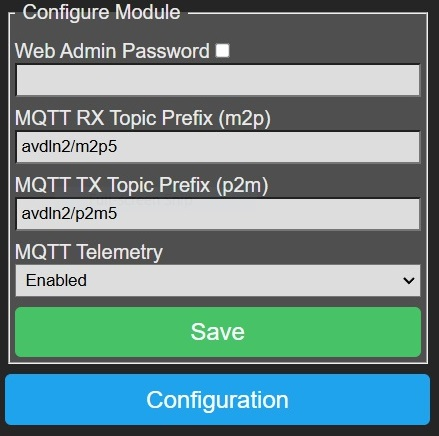
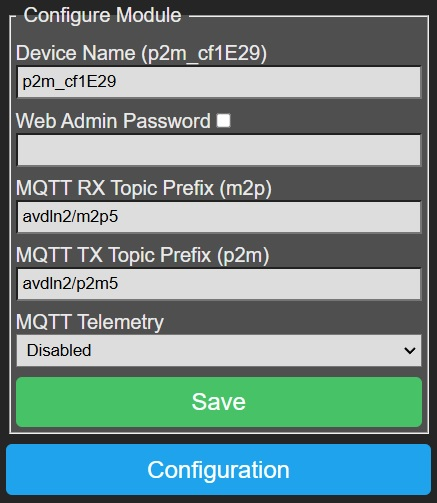
Update docs for v5.x.y.z

diff --git a/docs/Phc2MqttV5.md b/docs/Phc2MqttV5.md
@@ -17,9 +17,10 @@ description: Phc2Mqtt v5.x.y.z
 | MQTT | A compact telemetry protocol typically used in IoT applications, runs over TCP
 | PHC | PEHA Home Control domotic system  
 | STM | STeering Module, the central processor in a PHC system
-| System Software | THe Windows application to configure and program your PHC system  
+| System Software | The PEHA Windows application to configure and program your PHC system  
 | PCB | Printed Circuit Board, a non-conductive material with copper patterns on 1 or 2 sides to interconnect electronic components
 | ESP32 DevkitC | The ESP32 dual core module that is used for Phc2Mqtt, we use the WROVER version with 4Mb/8Mb flash memory and 4Mb PSRAM
+| LilyGo T-ETH Lite | The ESP32 dual code module with ethernet that is used on PCB v3.x, with WROVER
 | P2M | The combination of the hardware and software that make up the functionality of Phc2Mqtt
 | Sub-system | A functional part of P2M that performs a certain task and is under supervision of P2M
 | NVS | Non-volatile storage, a part of memory that stores data and settings permanently, even when power fails
@@ -27,6 +28,7 @@ description: Phc2Mqtt v5.x.y.z
 | Oper State | Operational state (stopped/started), this is the actual running state of a sub-system. A sub-system will be stopped when booting P2M, if the admin state is enable, then the sub-system will be started and the oper-state will become started  
 | AP-mode | Access Point mode, the Phc2Mqtt module acts as an access point to which you can connect with a Wifi enabled PC or Smart Phone
 | STA-mode |Station mode, the Phc2Mqtt module connects to a Wifi AP as a station, you can access P2M via the WLAN network
+| ETH-mode | Ethernet mode, the Phc2Mqtt module connects via an ethernet link to the network
 | OTA-update | Over-The-Air, refers to firmware upgrade by simple file upload, as such you don't need to open P2M or use specialized hardware
 | Serial-update | Refers to firmware upgrade via a USB port, this requires connecting a USB cable to P2M
 
@@ -127,7 +129,7 @@ It still fits in a 3MOD DIN-rail housing. If the housing has a red transparent t
     P2M is configured by default to power from the internal power supply, 
     if you want to power it via USB you need to remove the cap from the PWR connector first (top/center on main PCB).
 
-###Version 2.2/2.3
+###Version 2.2/2.3 (jul-2022)
 This version has a single mainboard that contains the ESP32-DevkitC, it's form maximalizes the board space available
 while fitting in a custom 3D printed 2MOD DIN-rail housing.
 
@@ -148,7 +150,7 @@ It draws power from the PHC power supply by means of a DC/DC convertor and the R
 &nbsp;  
 &nbsp;  
 &nbsp;  
-###Version 3.1
+###Version 3.1 (jan-2025)
 This version has a single mainboard that contains the LilyGo T-ETH Lite board supporting Ethernet and Wifi, it's form maximalizes the board space available
 while fitting in a custom 3D printed 2MOD DIN-rail housing.
 
@@ -401,7 +403,10 @@ Click on a button to enter the related configuration page.
 
 ###Configure Module
 
-<img style="float:right;width:352px;height:350px" src="../img/p2m-config-modu.jpg"></img>
+<img style="float:right;width:352px;height:405px" src="../img/p2m-config-modu.jpg"></img>
+
+- **Device Name**: Max 31 characters. Defaults to 'p2m_xxxxxx' (where xxxxxx is part of the MAC address), this name will be used throughout
+P2M for things as SSID in case of AP network mode and in HA advertising.  
 
 - **Web Admin Password**: Max 31 characters. You can specify a password to protect web access to P2M, in this case you need to logon to P2M
 when prompted by the browser, the username is &#39;admin&#39; completed with the specified password.  
@@ -428,7 +433,7 @@ But you can choose whatever you want.
 
 - **Preferred Network Mode**: Here you can select the preferred mode of network connectivity AP/STA/ETH.  
 
-AP mode: P2M will be a standalone access point with SSID 'p2m_xxxxxx'. You can connect to it with a Wifi enabled PC.  
+AP mode: P2M will be a standalone access point with SSID set to the Module Device Name. You can connect to it with a Wifi enabled PC.  
 
 STA mode: P2M will connect to a remote access point and will be available to the whole network. If no Remote AP SSID is specified, P2M will fallback to AP mode.  
 
@@ -455,6 +460,28 @@ P2M will boot in AP-mode and turn the red module LED on to indicate this, after 
 and access it on 192.168.4.1 with a web browser without password.
 Change the Wifi settings to the correct values, save them and reboot P2M to revert to normal STA-mode operation.  
 
+###Configure Logging
+P2M has extensive logging features that enable you to monitor module behaviour, but also to give you support in case of problems.
+
+Some of them generate serious overhead so they must remain inactive as much as possible and should only be set when asked by support team.
+
+To provide the usable and necessary feedback to the user we suggest below settings:
+
+<img style="float:right;width:352px;height:408px" src="../img/p2m-config-logr.jpg"></img>
+
+- **Serial Loglevel**: Set to '0 None' for normal operation, serial logging is sent over the USB connection of the ESP32 DevkitC.  
+
+- **Web Loglevel**: Should be set to '2 Info' for normal operation,
+this logging can be observed in the [Web Console](#web-console).  
+
+- **Syslog Loglevel**: Set to '0 None' for normal operation.  
+
+- **Syslog IP Address/Syslog IP Port**: In case syslog logging is needed,
+fill out the IP address and port (default 514) of the target syslog deamon.  
+
+- **Save**: Press this button to save settings, Serial Loglevel, Web Loglevel and Syslog Loglevel changes will have immediate effect,
+the other settings require a module [reboot](#reboot) to let changes take effect.
+
 ###Configure MQTT Client
 The MQTT client is the interface to the MQTT broker (server), when enabled
 it will connect to the broker and provide a send/receive path to P2M for receiving commands
@@ -475,42 +502,17 @@ it is upto them to determine whether to use the message or not.
 
 - **User/Password**: Optional, max 31 characters. If needed to connect to the broker.  
 
-- **LWT Topic/Msg/Qos/Retain**: Optional, Last Will and Testament configuration  
+- **Keepalive Period**: Default 30s. P2M will send a ping msg every Keepalive Period seconds, this to indicate that it is still
+alive and functioning. Can range from 15 to 3600 seconds.
+
+- **LWT Topic/Msg/Qos/Retain**: Optional, Last Will and Testament configuration. When P2M crashes or looses connection to the MQTT Broker, 
+the broker will send out this message. Note however that the Broker will not notice this until it tries to send a message to P2M or until
+the Keepalive Period expires.
 
 - **Admin State**: Specifies the desired state of the MQTT client after P2M reboot, this does not immediately change the operational state.  
 
 - **Save**: Press this button to save settings, [reboot](#reboot) P2M to let changes take effect.
 
-&nbsp;  
-&nbsp;  
-&nbsp;  
-&nbsp;  
-&nbsp;  
-&nbsp;  
-&nbsp;  
-
-
-###Configure Logging
-P2M has extensive logging features that enable you to monitor module behaviour, but also to give you support in case of problems.
-
-Some of them generate serious overhead so they must remain inactive as much as possible and should only be set when asked by support team.
-
-To provide the usable and necessary feedback to the user we suggest below settings:
-
-<img style="float:right;width:352px;height:408px" src="../img/p2m-config-logr.jpg"></img>
-
-- **Serial Loglevel**: Set to '0 None' for normal operation, serial logging is sent over the USB connection of the ESP32 DevkitC.  
-
-- **Web Loglevel**: Should be set to '2 Info' for normal operation,
-this logging can be observed in the [Web Console](#web-console).  
-
-- **Syslog Loglevel**: Set to '0 None' for normal operation.  
-
-- **Syslog IP Address** and <b>Syslog IP Port</b>: In case syslog logging is needed,
-fill out the IP address and port (default 514) of the target syslog daemon.  
-
-- **Save**: Press this button to save settings, Serial Loglevel, Web Loglevel and Syslog Loglevel changes will have immediate effect,
-the other settings require a module [reboot](#reboot) to let changes take effect.
 
 ###Configure Simple Rule Server
 The [Simple Rule Server](../SimpleRuleServer) manual gives a detailed explanation of the SRS daemon (SRSD),
@@ -584,8 +586,8 @@ the port depends on the settings of the convertor which must be in TCP server mo
 - **Save**: Press this button to save settings, changes take effect after rebooting P2M.
 
 
-###Configure STM Daemon
-The STM Daemon (STMD) is the heart of P2M which coordinates activities to/from the PHC system,
+###Configure STM Deamon
+The STM Deamon (STMD) is the heart of P2M which coordinates activities to/from the PHC system,
 it relies on project configuration data received via the [PHC Management Interface](#phc-management-interface).
 
 This project config data is stored in 2 files:  
@@ -604,6 +606,10 @@ enter P2M's IP address, press TAB and you should notice that version 3.30 is rep
 
 Goto the transfer window of the Systemsoftware and press <b>Start</b>, the project data will be transfered to P2M, you can observe this in the <b>Web Console</b>.
 
+The STMD will automatically extract project.ppfx after transferring the project data
+with the Systemsoftware, and will rebuild P2M-list by parsing project.ppfx. It will also generate data describing your PHC 
+system that can be sent out via MQTT so Home Assistant (HA) can discover it (experimental).
+
 &nbsp;
 
 <img style="float:right;width:352px;height:489px" src="../img/p2m-config-stmd-v5.jpg"></img>
@@ -616,17 +622,6 @@ it also relays commands coming in from MQTT client to the real (remote) STM in y
 'PassiveSTMv3': The STMD replaces the real STM of your PHC system, it is the master of the PHC module bus and communicates directly with
 the PHC modules. Commands coming in from MQTT client will be executed, events coming from PHC modules are only reported to MQTT client/SRS daemon.  
 
-
-- **Configuration**: Selects how P2M will handle incoming project data via the PHC Management Interface
-
-'Manual upload & validate new configuration': You will need to upload project.ppfx yourself (see below), this is intended as backup in case the first option fails.
-
-'Generate from transferred project': The STMD will automatically extract project.ppfx after transferring the project data with the
-Systemsoftware, and will rebuild P2M-list by parsing project.ppfx.
-
-'Generate from transferred project + HA data': The STMD will automatically extract project.ppfx after transferring the project data
-with the Systemsoftware, and will rebuild P2M-list by parsing project.ppfx. It will also generate data describing your PHC 
-system that can be sent out via MQTT so Home Assistant (HA) can discover it (experimental).
 
 - **Module-List**:
 
@@ -650,34 +645,6 @@ Address 0x00-0x1F : imd
 - **Save**: Press this button to save settings, [reboot](#reboot) P2M to let changes take effect.  
 
 - **Download Config**: Here you can download the generated configuration file for reference.  
-
-
-###Configure STM HA Discovery
-Home Assistant (HA) is a leading automation integrator and we are trying to provide an easy way to advertise the capabilities of your
-PHC system to HA. This is done by publishing selected components/channels via MQTT to a certain topic.  
-
-Channels you want to advertise to Home Assistant need to have the 'Visualize' checkmark set in the Systemsoftware v3.
-
-<img style="float:right;width:352px;height:400px" src="../img/p2m-config-ha-disco-v5.jpg"></img>
-
-- **Discovery Topic Prefix**: The prefix of the topic to which to publish MQTT messages.  
-
-- **Discovery Mode**: Here you select how to advertise the selected channels.  
-
-Individual Components: In this mode each channel is advertised in itself.
-
-Device Components: In this mode each channel is advertised as a subdevice of an encapsulating PHC device.
-
-- **Discovery Interval**: The rate at which to publish advertise messages.  
-
-- **Discovery Retain**: Enable/disable the retain flag in the MQTT messages.  
-
-- **Save**: Press this button to save settings.  
-
-- **Discover Now**: Press this button to publish P2M capabilities to HA.
-  This functionality is still experimental at this moment and reports only available modules/channels. New development is ongoing.
-
-
 
 
 ###Configure STM Reporting
@@ -754,6 +721,34 @@ topic=cmd/omd.0 data={out3:ontimed.300}
 To see the differences you can later on observe them in the [Web Console](#web-console).  
 
 
+###Configure STM HA Discovery
+Home Assistant (HA) is a leading automation integrator and we are trying to provide an easy way to advertise the capabilities of your
+PHC system to HA. This is done by publishing selected components/channels via MQTT to a certain topic.  
+
+Channels you want to advertise to Home Assistant need to have the 'Visualize' checkmark set in the Systemsoftware v3.
+
+<img style="float:right;width:352px;height:400px" src="../img/p2m-config-ha-disco-v5.jpg"></img>
+
+- **Discovery Topic Prefix**: The prefix of the topic to which to publish MQTT messages.  
+
+- **Discovery Mode**: Here you select how to advertise the selected channels.  
+
+Component: In this mode each channel is advertised in itself.
+
+Device: In this mode each channel is advertised as a subdevice of an encapsulating PHC device identified as Module Device Name.
+
+- **Discovery Interval**: The rate at which to publish advertise messages.  
+
+- **Discovery Retain**: Enable/disable the retain flag in the MQTT messages.  
+
+- **Save**: Press this button to save settings.  
+
+- **Advertise Now**: Press this button to publish P2M capabilities to HA.
+  This functionality is still experimental at this moment and reports only available modules/channels. New development is ongoing.
+
+
+
+
 ###PHC Cmd Reference
 
 By clicking on a hyperlink in this page you will get a list of commands applicable to the clicked item in the text area below.
@@ -762,7 +757,7 @@ By clicking on a hyperlink in this page you will get a list of commands applicab
 Commands related to input (in%/ir%/im%/il%) and feedback (fb%) channels are not available in PassiveSTMv3 mode as the STMD
 does not handle them.
 
-These commands can be executed by publishing an MQTT message to topic '<rx-topic-prefix>/cmd/ccmd' where the data part contains the commands.
+These commands can be executed by publishing an MQTT message to '&lt;rx-topic-prefix&gt;/cmd/ccmd' where the data part contains the commands.
 These commands can also be executed by entering them in the Web Console command line.
 
 <p align="center">
@@ -864,10 +859,11 @@ mqtc                report MQTT client extra settings and statistics
 mqtc txque          set MQTT client tx-que size
 mqtc txbuf          set MQTT client tx-buffer size
 mqtc rxbuf          set MQTT client rx-buffer size
-srsd                report SRS daemon settings and statistics
+srsd                report SRS deamon settings and statistics
 srsd state          report SRS deamon state variables
-ha                  <todo>
-ha advertise        advertise components to Home Assistant
+stmd                report STM deamon settings and statistics
+stmd state          report STM deamon state data
+stmd advertise      advertise PHC components via MQTT to Home Assistant
 ```
 .
 ```
